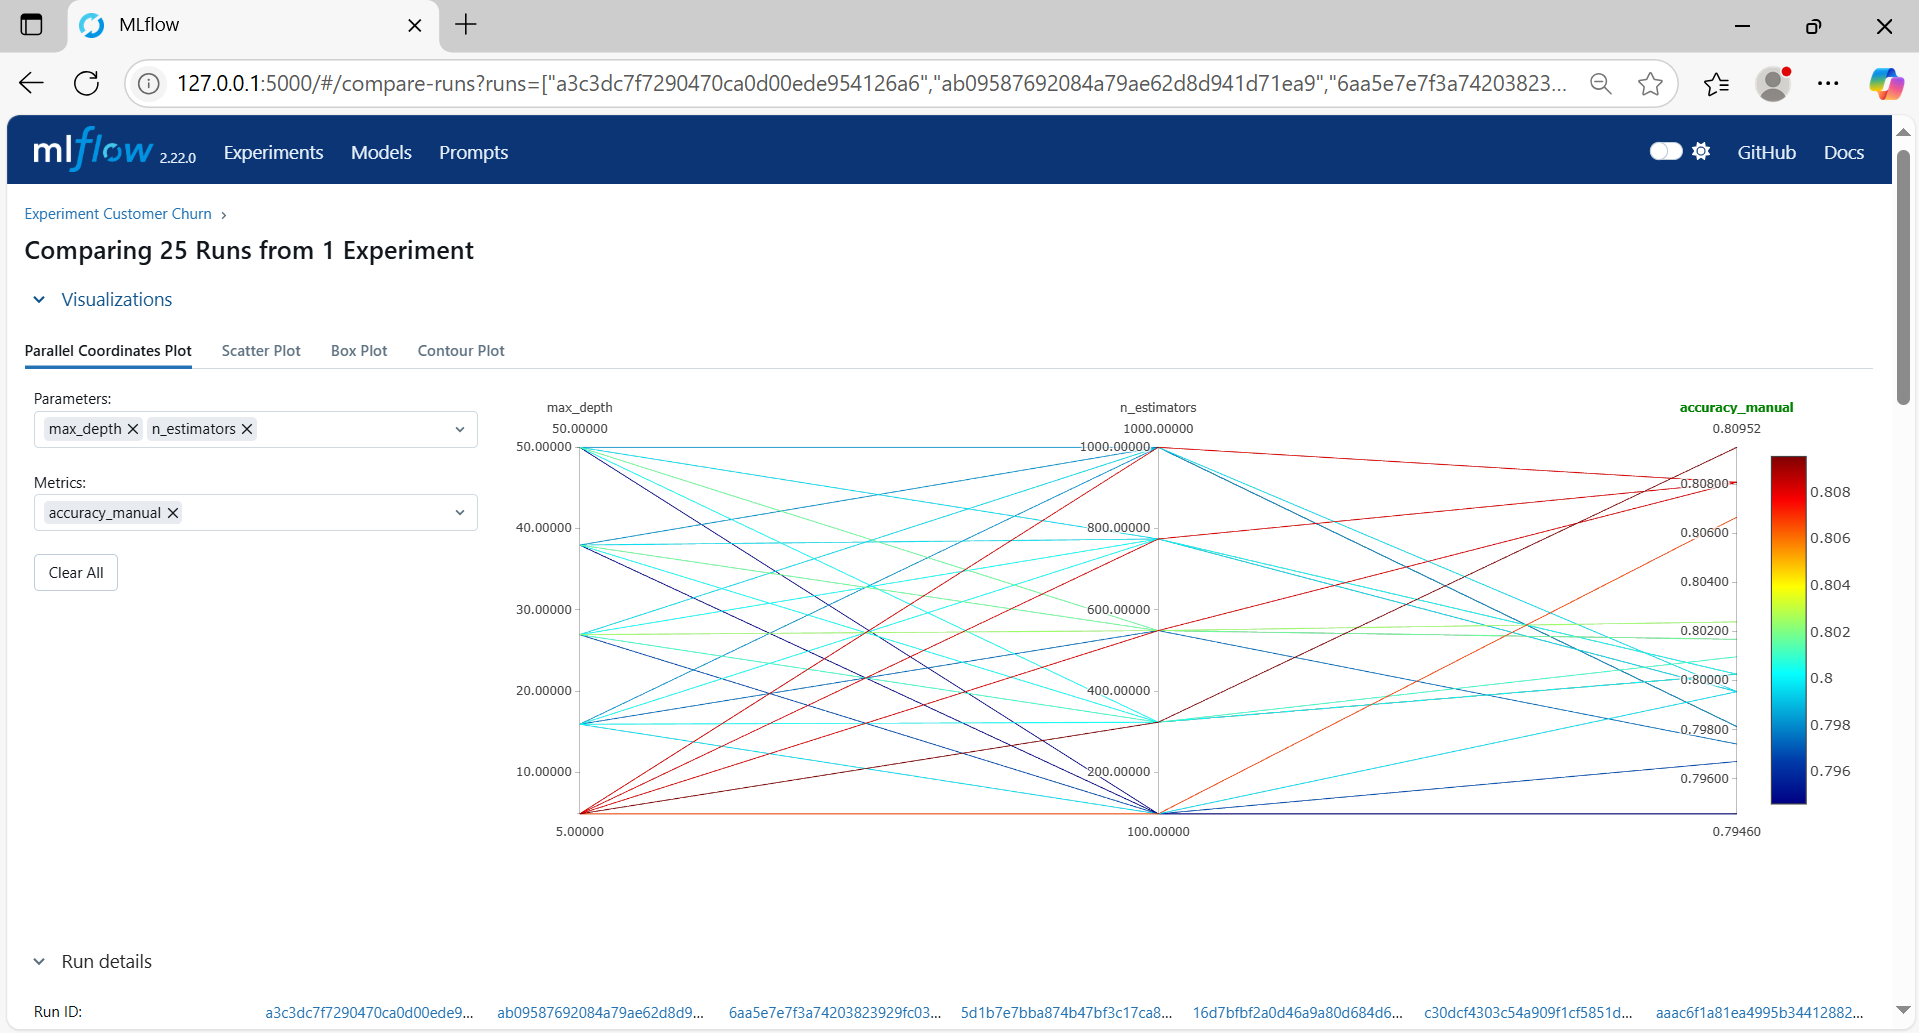
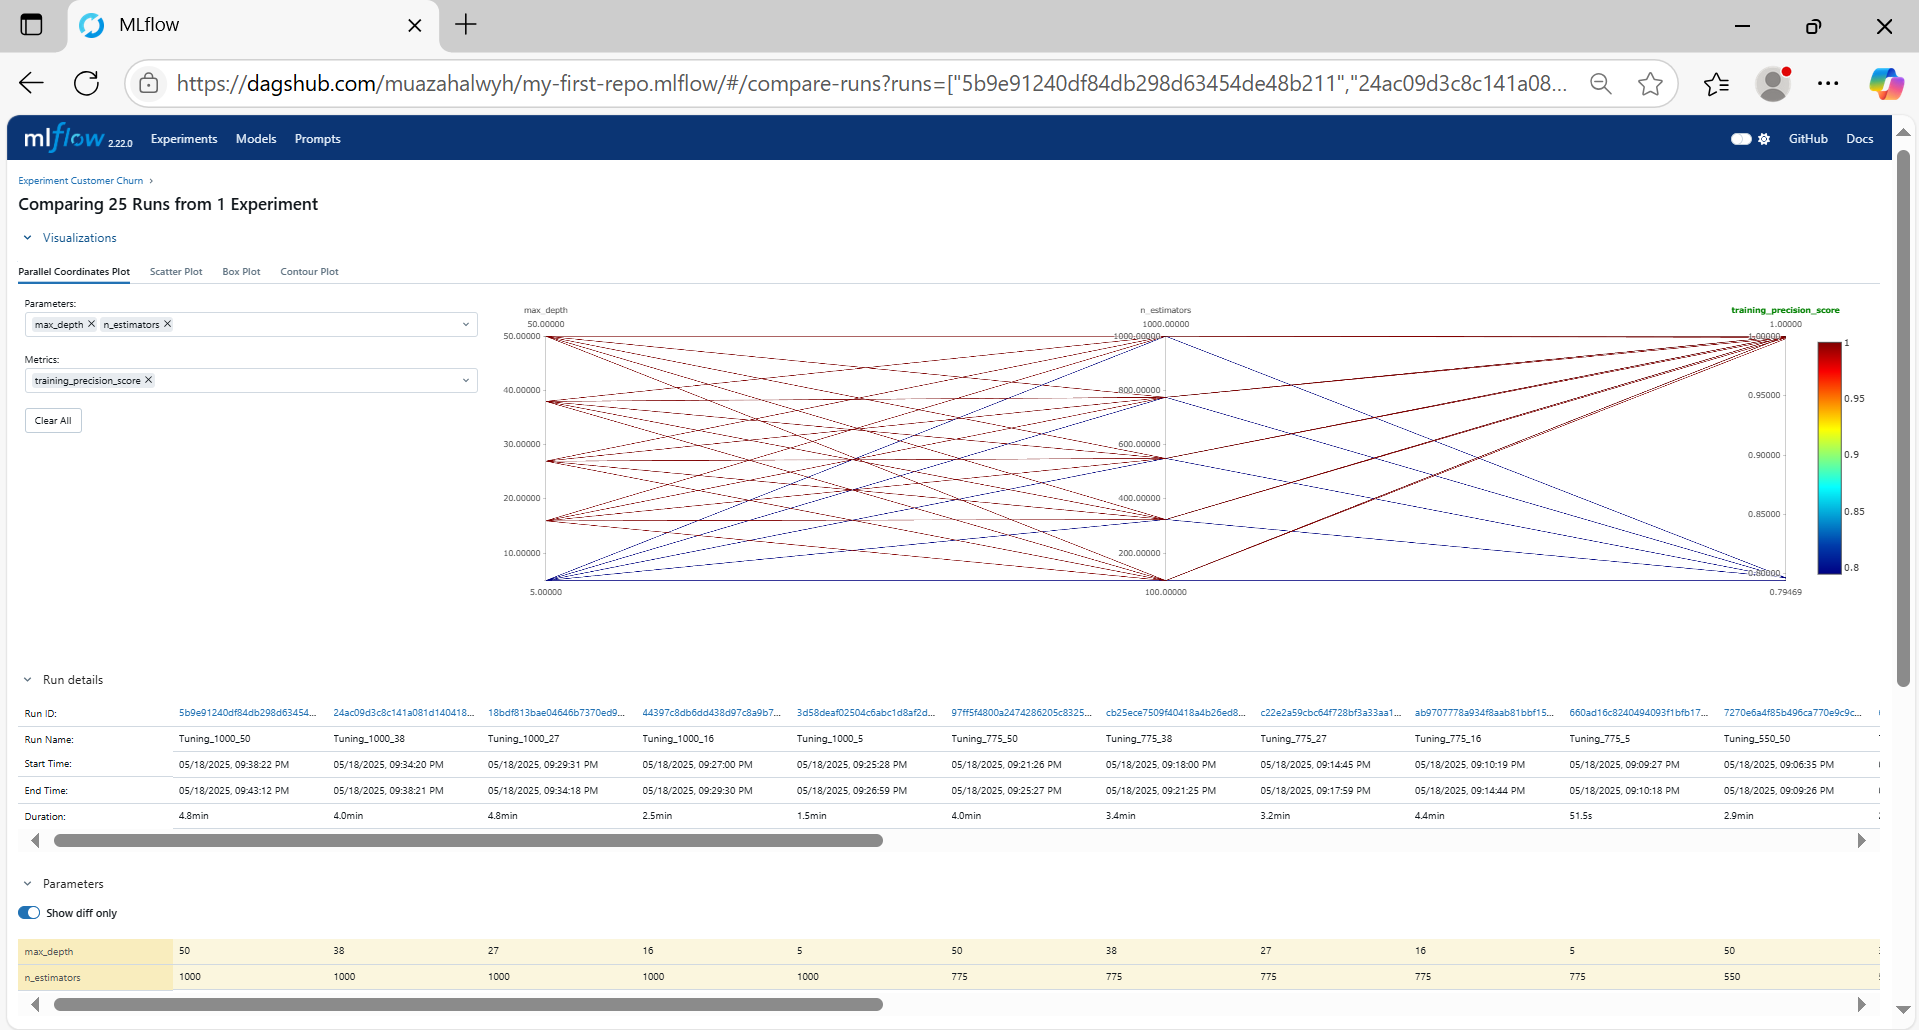
update yaml

diff --git a/Membangun_model/modelling.py b/Membangun_model/modelling.py
@@ -5,7 +5,7 @@ from sklearn.ensemble import RandomForestClassifier
 from sklearn.metrics import accuracy_score, precision_score, recall_score, f1_score
 from sklearn.model_selection import train_test_split
 
-mlflow.set_tracking_uri("http://127.0.0.1:5000/")
+mlflow.set_tracking_uri("https://dagshub.com/muazahalwyh/my-first-repo.mlflow")
 
 # Create a new MLflow Experiment
 mlflow.set_experiment("Experiment Customer Churn")

diff --git a/Membangun_model/modelling_tuning.py b/Membangun_model/modelling_tuning.py
@@ -5,7 +5,7 @@ from sklearn.ensemble import RandomForestClassifier
 from sklearn.model_selection import train_test_split
 import numpy as np
 
-mlflow.set_tracking_uri("http://127.0.0.1:5000/")
+mlflow.set_tracking_uri("https://dagshub.com/muazahalwyh/my-first-repo.mlflow")
 mlflow.set_experiment("Experiment Customer Churn")
 
 # Load data

diff --git a/README.md b/README.md
@@ -1,17 +1,33 @@
+- Membuat environment baru
+```
 Python -m venv env
-.\env\Scripts\activate #windows
+```
+
+- Mengaktifkan environment
+```
+\env\Scripts\activate #windows
 source env/bin/activate # linux/macos
-
+```
+- Mematikan environment
+```
 deactivate
+```
 
+- Menginstall installasi yang dibutuhkan dalam project
+```
 pip install -r requirements.txt
+```
 
+- Menghidupkan environment notebook
+```
 python -m ipykernel install --user --name=env --display-name "Python env"
+```
 
-
+- Menjalankan mlflow
+```
 mlflow ui
 python Membangun_model/modelling.py
 python Membangun_model/modelling_tuning.py
-
+```
 
 
